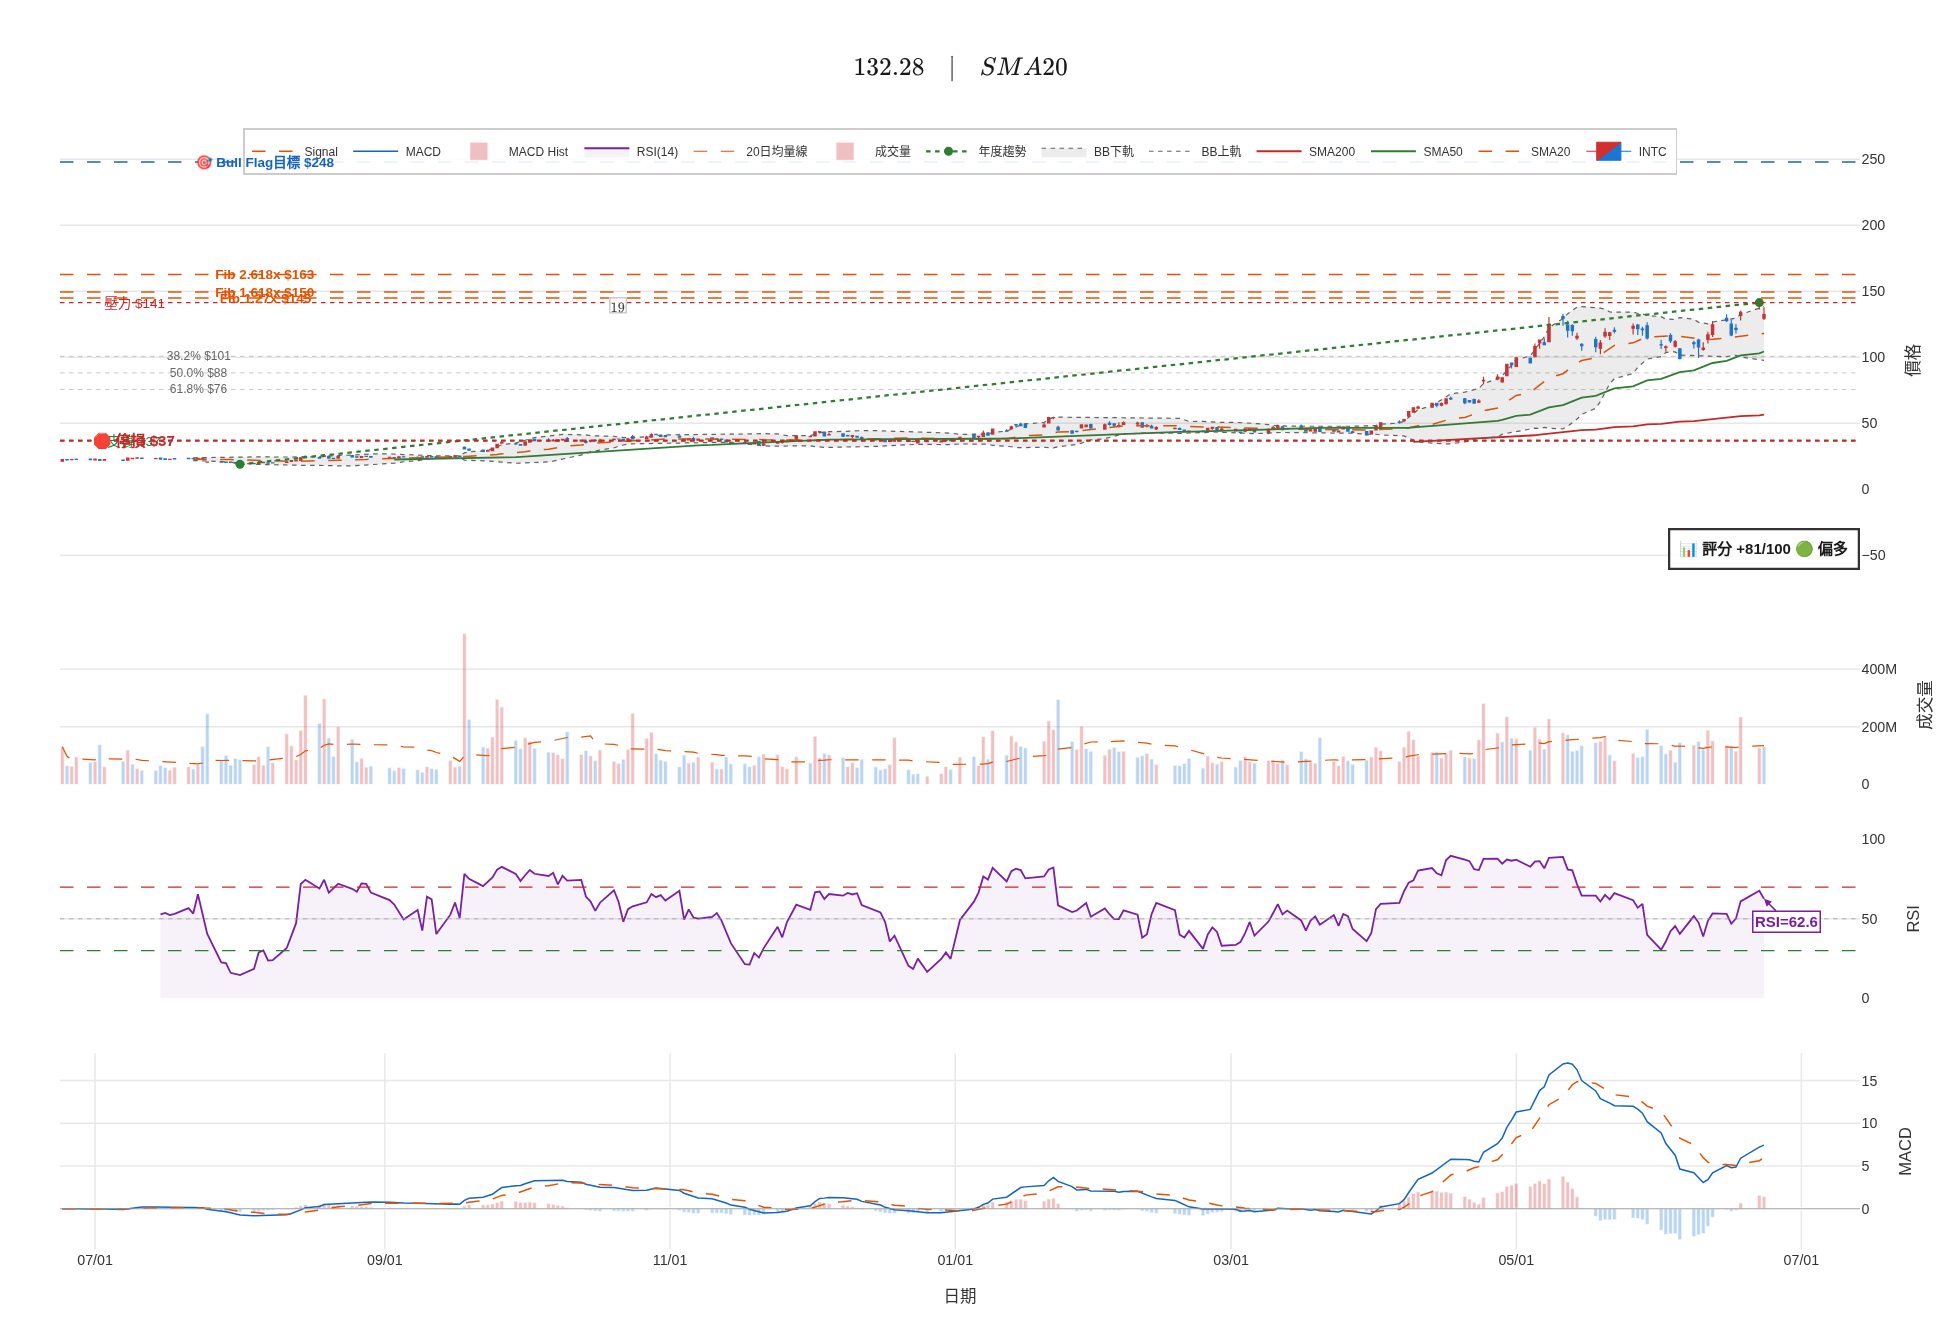
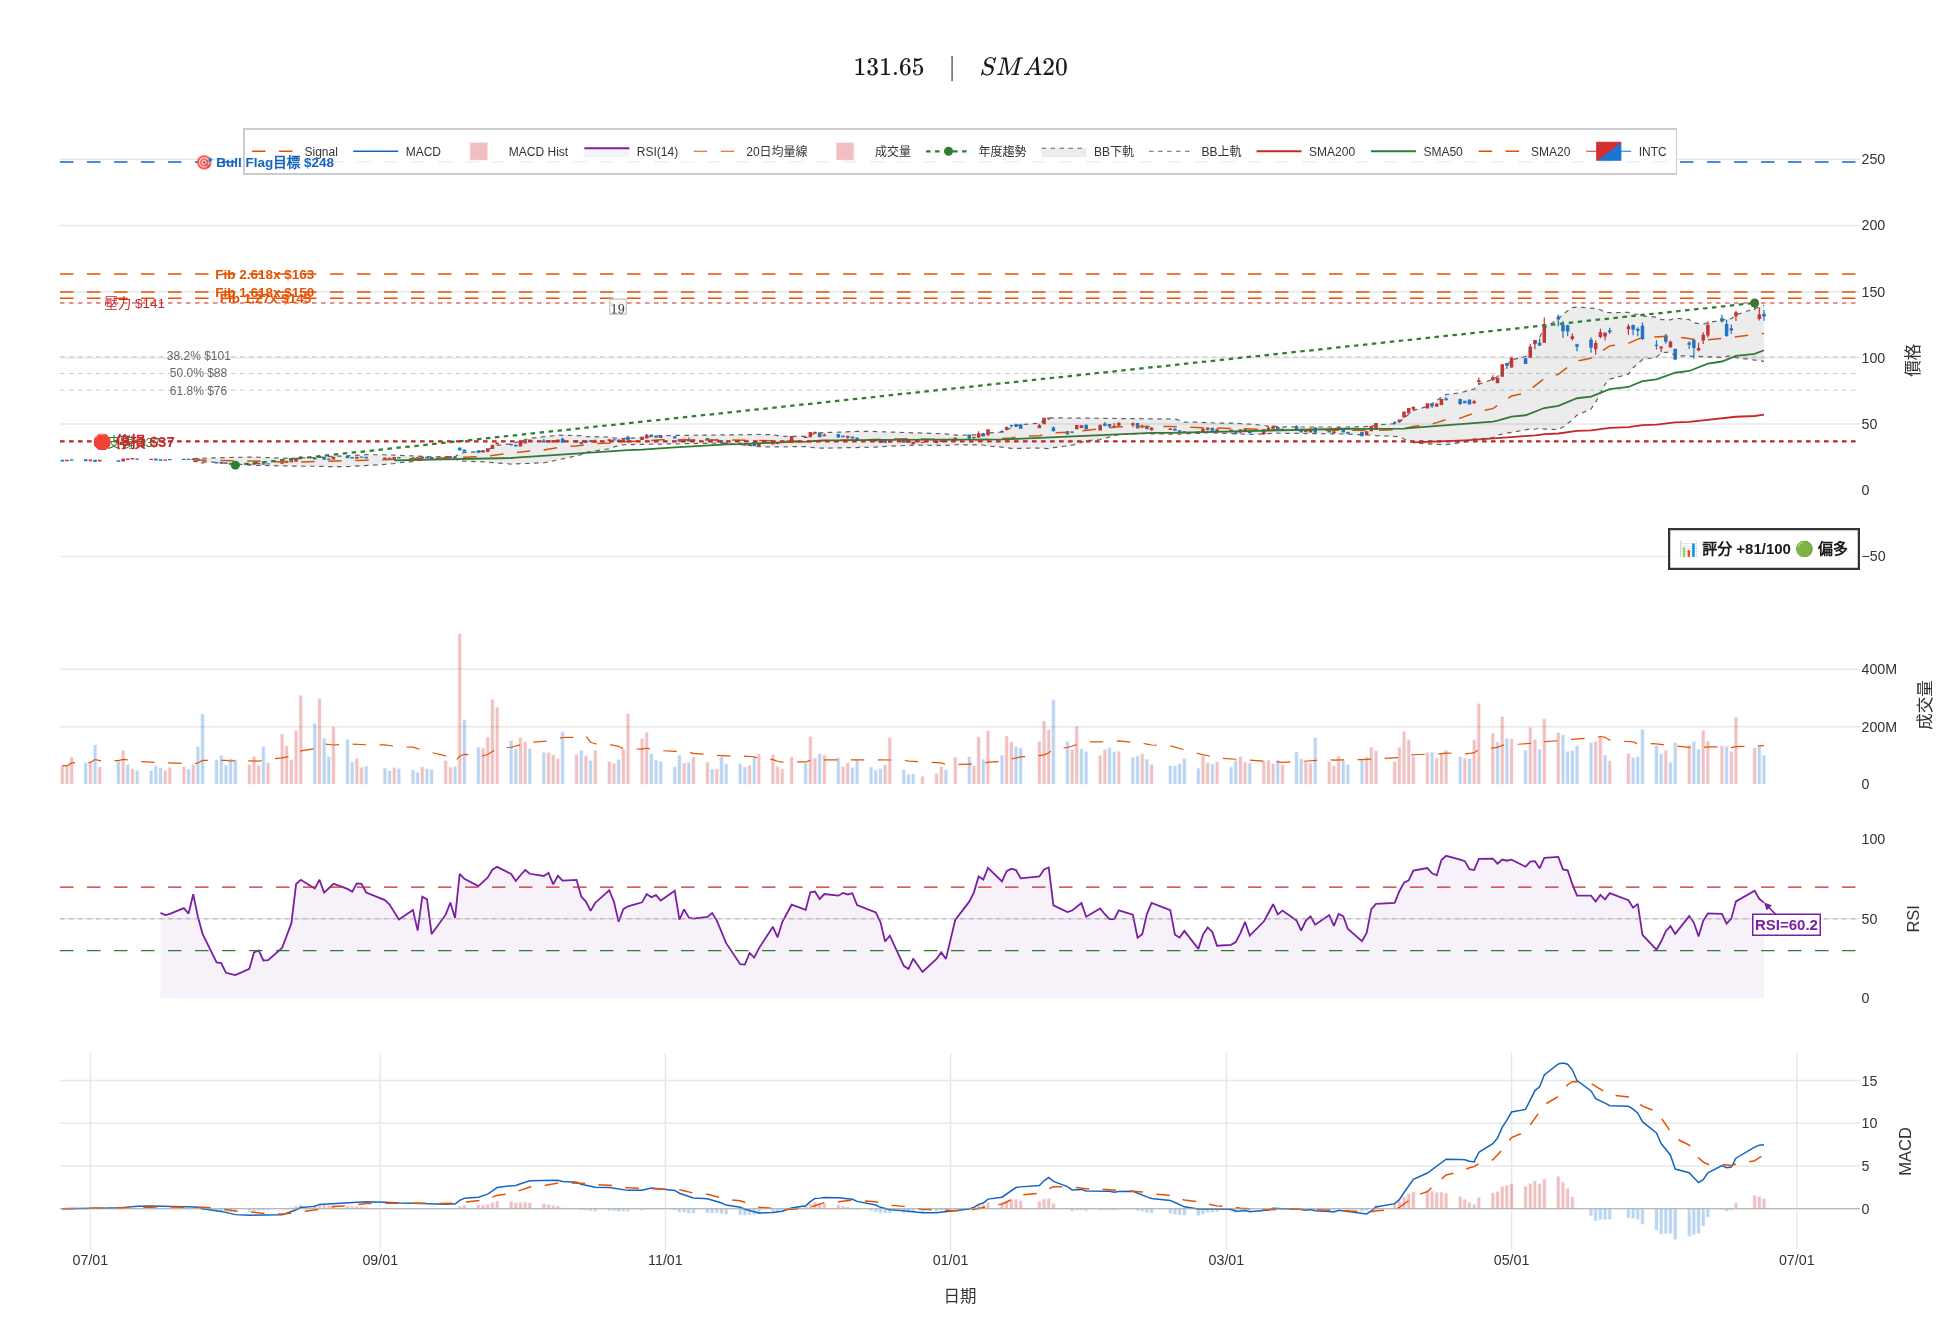
charts: 更新 2026-06-24 技術圖

diff --git a/charts/index.html b/charts/index.html
@@ -43,23 +43,23 @@ body { font-family:'Noto Sans TC',sans-serif; background:#f5f0e8; color:#1a1714;
   <div class="chart-grid">
     <div class="chart-card">
       <img src="dji.png" alt="道瓊工業指數">
-      <div class="info"><h3>道瓊工業指數 DJI</h3><p>51,666.84 (−0.09%) · RSI 52.9</p></div>
+      <div class="info"><h3>道瓊工業指數 DJI</h3><p>51,848.90 (+0.35%) · RSI 60.1</p></div>
     </div>
     <div class="chart-card">
       <img src="sox.png" alt="費城半導體指數">
-      <div class="info"><h3>費城半導體指數 SOX</h3><p>13,482.51 (−7.87%) · RSI 48.6</p></div>
+      <div class="info"><h3>費城半導體指數 SOX</h3><p>13,458.19 (−0.18%) · RSI 47.2</p></div>
     </div>
     <div class="chart-card">
       <img src="ixic.png" alt="納斯達克指數">
-      <div class="info"><h3>納斯達克指數 IXIC</h3><p>25,587.04 (−2.21%) · RSI 37.4</p></div>
+      <div class="info"><h3>納斯達克指數 IXIC</h3><p>25,476.63 (−0.43%) · RSI 38.2</p></div>
     </div>
     <div class="chart-card">
       <img src="tsm.png" alt="台積電 ADR">
-      <div class="info"><h3>台積電 ADR (TSM)</h3><p>$436.39 (−6.69%) · RSI 47.7</p></div>
+      <div class="info"><h3>台積電 ADR (TSM)</h3><p>$440.83 (+1.02%) · RSI 51.3</p></div>
     </div>
     <div class="chart-card">
       <img src="intc.png" alt="Intel">
-      <div class="info"><h3>Intel (INTC)</h3><p>$132.28 (−6.14%) · RSI 62.6</p></div>
+      <div class="info"><h3>Intel (INTC)</h3><p>$131.65 (−0.48%) · RSI 60.2</p></div>
     </div>
     <div class="chart-card" style="cursor:pointer;" onclick="location.href='taiex-technical.html'">
       <div style="height:160px;background:linear-gradient(135deg,#1a1a2e,#16213e);display:flex;align-items:center;justify-content:center;">
